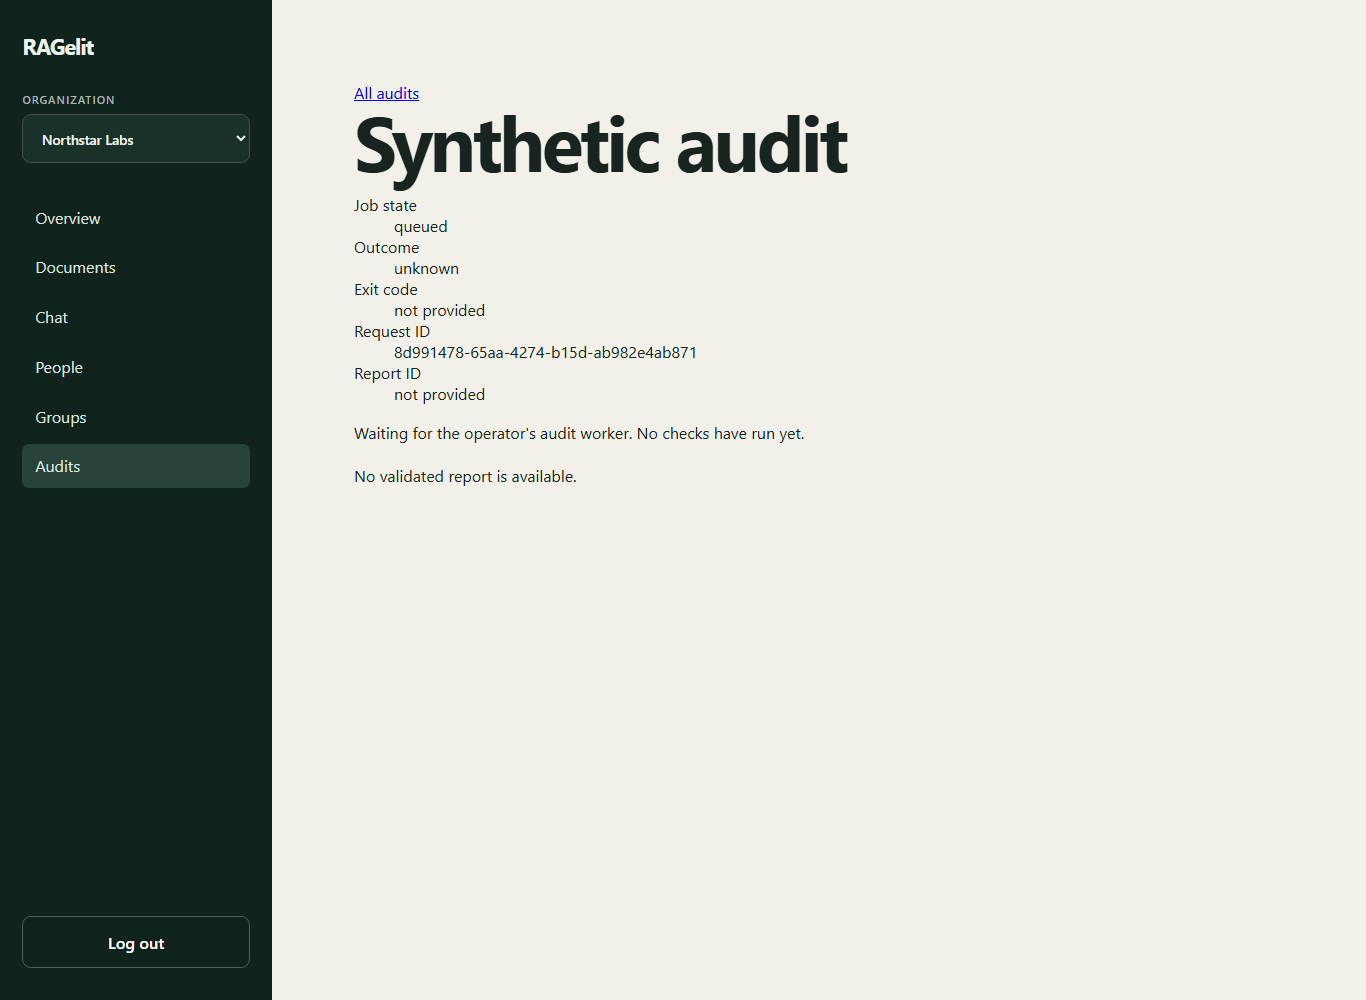
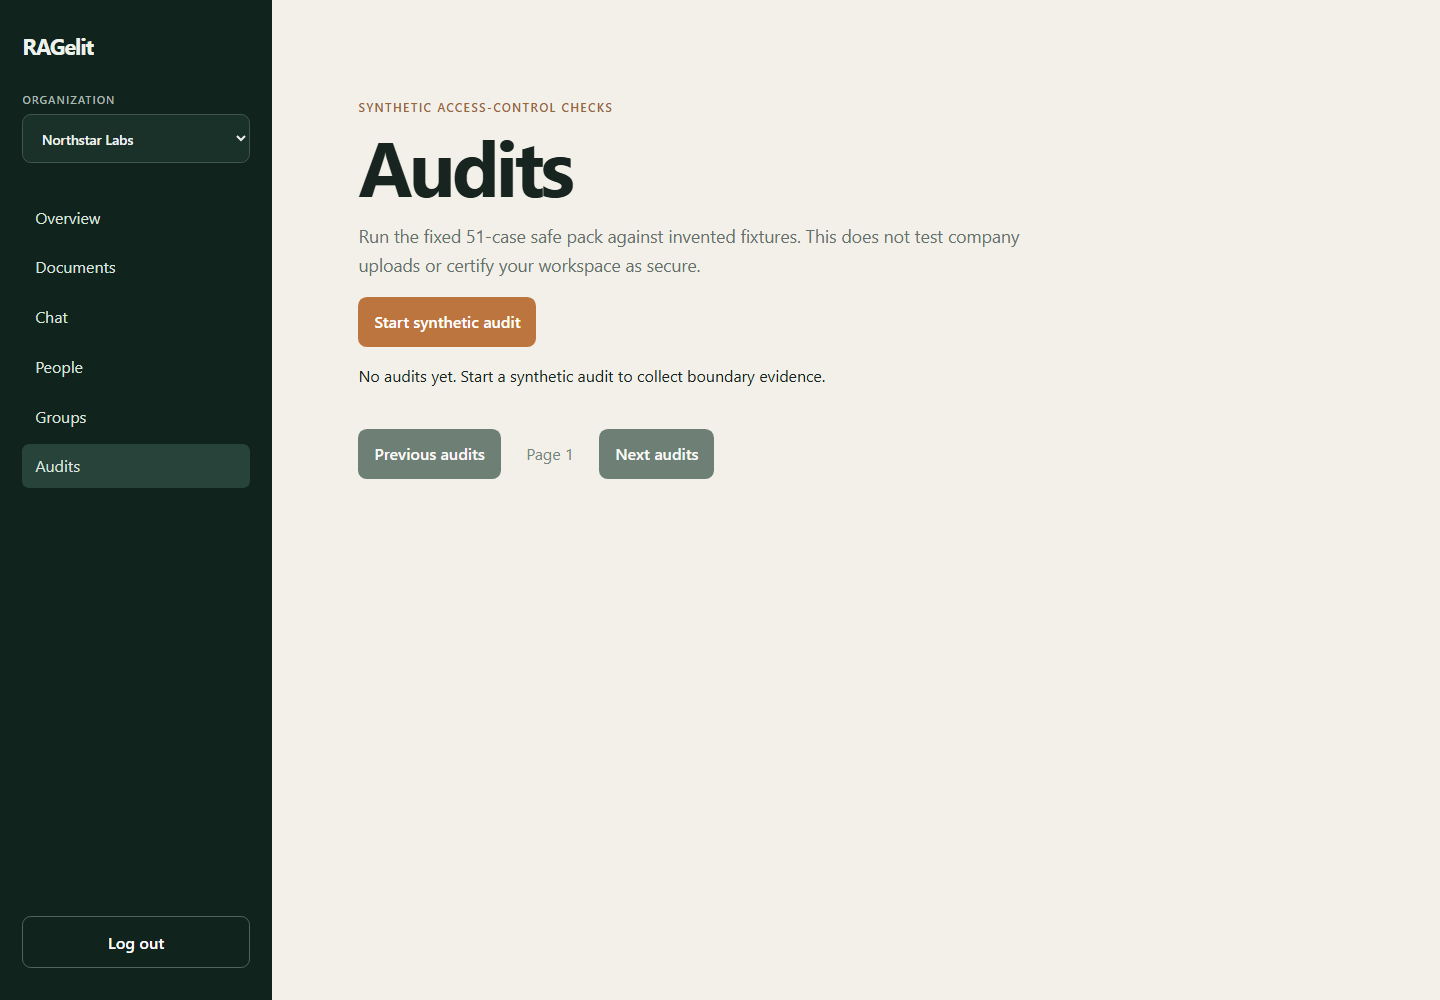
Refresh README with live portal screenshots

diff --git a/README.md b/README.md
@@ -1,60 +1,106 @@
 # RAGelit
 
-A multi-tenant document assistant with permission-aware retrieval and automated
-access-control auditing.
+A multi-tenant document assistant with permission-aware hybrid search and
+automated access-control auditing.
 
-Upload documents, grant reading access, and ask questions with source citations
-in one web portal. RAGelit also runs synthetic audits through the application
-pipeline to show where unauthorized evidence appears or is blocked.
+[![CI](https://github.com/HuzaifaAbdulRehman/ragelit/actions/workflows/ci.yml/badge.svg?branch=main)](https://github.com/HuzaifaAbdulRehman/ragelit/actions/workflows/ci.yml)
+[Preview release](https://github.com/HuzaifaAbdulRehman/ragelit/releases/tag/v0.1.0-preview.2)
 
-Status: MVP preview for local synthetic-data evaluation. Container-security
-findings and real-model quality measurements remain open. Evaluate locally with
-synthetic documents only; this is not cleared for production or confidential data.
+Upload documents, assign reading access, and ask questions with source citations.
+RAGelit filters evidence by organization and document grants before retrieval.
+Synthetic audits help inspect where unauthorized evidence is blocked or exposed.
 
-[Quick start](#quick-start) · [Operator reference](OPERATIONS.md) ·
-[Preview notes](docs/releases/v0.1.0-preview.1.md) ·
-[Security controls](docs/security/control-matrix.md) ·
-[Verification checkpoint](docs/verification/2026-10-07-local-release-checkpoint.md)
+MVP preview for local evaluation with synthetic data. Container-security findings
+and full real-model evaluations remain open. Not cleared for production or
+confidential documents.
 
-![Document question answered with a source citation in RAGelit](docs/screenshots/chat-citations.png)
+[Quick start](#quick-start) · [Screenshots](#portal) ·
+[How it works](#how-it-works) · [Verification](#verification-and-measured-limits) ·
+[Operator reference](OPERATIONS.md)
 
-Screenshots use invented Northstar Labs documents and accounts. The running
-portal used the real API, PostgreSQL, Qdrant and ingestion worker with test-only
-embeddings and an extractive answer provider. The answer above is a UI demo,
-not a real-model quality result.
+![A live model answer with a citation to the synthetic Northstar refund policy](docs/screenshots/chat-citations.png)
+
+A real answer from GPT-OSS 20B hosted on Groq, citing a permitted document.
+This is a small synthetic-data demonstration, not an answer-quality benchmark.
 
 ## What it does
 
-- Separate organizations in one portal, with owner, admin, member and auditor roles.
+- Separate organizations with owner, admin, member and auditor roles.
 - Ingest TXT, Markdown, DOCX and text-based PDF files, with versioning and retries.
-- Keep new documents restricted; grant access to people, groups or an organization.
-- Generate dense embeddings locally and combine vector search with BM25 retrieval.
-- Return cited answers, abstain without supporting evidence, and expose scoped query traces.
-- Run synthetic access-control audits and export redacted JSON or offline HTML evidence.
+- Restrict new documents; grant reading access to people, groups or an organization.
+- Combine local dense embeddings with BM25 keyword retrieval.
+- Return cited answers, abstain without evidence, and expose scoped query traces.
+- Run synthetic audits and export redacted JSON or offline HTML evidence.
 - Compare isolation strategies and replay utility, security and cost measurements from a CLI.
 
-RBAC controls management actions. Document grants control reading. Being an
-owner or uploading a document does not automatically make its contents readable.
-Tenant and grant filters apply before dense and keyword search, followed by
-application authorization checks. Audits distinguish retrieval, context and
-candidate output from evidence actually delivered to a user.
+Management roles do not grant document reading. Even an owner needs an explicit
+reading grant for a restricted document. Tenant and grant filters apply before
+search, followed by application authorization checks.
 
 ## Portal
 
-| Uploads and indexing | Synthetic audit queue |
-|---|---|
-| ![Document upload and ready state](docs/screenshots/documents.png) | ![Queued synthetic audit with an unknown outcome](docs/screenshots/audit-portal.png) |
+Captured with Playwright from the running app at a 1440 × 1000 desktop viewport.
+All accounts and documents are invented. These captures use the real API,
+PostgreSQL, Qdrant and ingestion worker, with local BGE/BM25 embeddings and live
+Groq generation for the cited answer. No mocked API responses or generated
+mockups are shown.
 
-The audit screenshot shows a queued job, not a passing result. An operator runs
-the audit worker separately; pending jobs remain unknown until evidence is saved.
+| Organization login | Workspace overview |
+| :--- | :--- |
+| ![Login page with empty email and password fields](docs/screenshots/login.png) | ![Northstar Labs workspace showing the owner role and active session](docs/screenshots/workspace-overview.png) |
+| Sign in to a specific organization. | See the current workspace and management role. |
 
 <details>
-<summary>Document-level reading access</summary>
+<summary>Documents and reading permissions</summary>
 
-![Saved restricted document policy with a direct-user and Engineering group grant](docs/screenshots/document-access.png)
+![Two indexed synthetic documents, both restricted](docs/screenshots/documents.png)
 
-The policy shown has one persisted user grant and one group grant. Management
-permissions and document reading access remain separate.
+Uploads become Ready after the ingestion worker indexes them. Reading access
+remains restricted until granted.
+
+![Focused reading-grant picker with an explicit owner grant](docs/screenshots/document-access.png)
+
+This focused view shows the owner's saved direct-user grant, not implicit access
+through the owner role. The member has no reading grant.
+
+</details>
+
+<details>
+<summary>Membership and group administration</summary>
+
+![Four synthetic organization members with role and activation controls](docs/screenshots/people.png)
+
+Roles control management actions; document grants are separate.
+
+![Engineering and Research groups with membership-management controls](docs/screenshots/groups.png)
+
+Groups can grant document reading without changing a person's role.
+
+</details>
+
+<details>
+<summary>No-access answers and query traces</summary>
+
+![A member without reading access receives no supporting evidence or citations](docs/screenshots/chat-no-access.png)
+
+The same refund question produces no supporting evidence for a member without
+reading access.
+
+![The cited answer's retrieval, context, generation and citation-validation stages](docs/screenshots/query-trace.png)
+
+Query traces show stage decisions, timings and scoped chunk IDs. They are not
+the model's internal reasoning.
+
+</details>
+
+<details>
+<summary>Synthetic audit workspace</summary>
+
+![The synthetic audit page before any audit has been started](docs/screenshots/audit-portal.png)
+
+This is the audit page's empty state, not a passing result. The operator runs
+the audit worker separately; queued jobs remain unknown until evidence is saved.
+The fixed safe pack uses 51 invented cases, not uploaded company documents.
 
 </details>
 
@@ -73,30 +119,43 @@ flowchart LR
     L --> S[Answer and validated citation IDs]
 ```
 
-PostgreSQL stores identities, document grants, versions, jobs and query traces,
+PostgreSQL stores identities, grants, document versions, jobs and query traces,
 with row-level security on tenant data. Workers handle ingestion and audits
 outside the web process. The lab-only retrieve-then-filter baseline is guarded
 from ordinary production configuration.
 
-Backend: Python, FastAPI, SQLAlchemy, PostgreSQL, FastEmbed/ONNX and Qdrant.
-Frontend: React, TypeScript, TanStack Query/Router and Vite. Dense retrieval uses
-BGE-small-en-v1.5; sparse retrieval uses Qdrant BM25. Generation uses a configured
-chat-completions-compatible server, not a provider login discovered automatically.
+The backend uses Python, FastAPI, SQLAlchemy, PostgreSQL, FastEmbed/ONNX and
+Qdrant. The frontend uses React, TypeScript, TanStack Query/Router and Vite.
+Dense retrieval uses BGE-small-en-v1.5; sparse retrieval uses Qdrant BM25.
+Generation accepts a configured chat-completions-compatible endpoint.
 
 ## Quick start
 
 Requires Docker Desktop/Compose, Python 3.12 or 3.13, uv, and Node.js 22 with npm.
-These defaults use Qdrant 1.19.2 with client 1.19.1. If you already have Qdrant
-data from an older version, read the [upgrade warning](OPERATIONS.md#existing-qdrant-data)
-before starting services. The commands below assume fresh data.
-Compose builds local linux/amd64 images from pinned upstream bases, with
-[PostgreSQL's zlib](docs/security/2026-10-09-postgres-zlib-candidate.md) and
-[Qdrant's PCRE2](docs/security/2026-10-09-qdrant-pcre2-candidate.md) fixes.
-Builds need package-repository access. Other container findings remain open.
-From the repository root on Windows:
+Local embeddings run on CPU. Hosted generation does not require a local GPU.
+
+These commands assume fresh data. The defaults use Qdrant 1.19.2 with client
+1.19.1. Do not attach old database volumes directly to the new images; read
+the [upgrade warning](OPERATIONS.md#existing-qdrant-data) first.
+
+From a fresh checkout:
 
 ```powershell
-Copy-Item .env.example .env
+git clone https://github.com/HuzaifaAbdulRehman/ragelit.git
+cd ragelit
+if (-not (Test-Path -LiteralPath .env)) { Copy-Item .env.example .env }
+```
+
+Edit `.env` for local configuration. Keep API keys there, never in
+`.env.example` or Git. The default database passwords and signing secret are
+for local development only.
+
+Compose builds local linux/amd64 images with the pinned
+[PostgreSQL zlib](docs/security/2026-10-09-postgres-zlib-candidate.md) and
+[Qdrant PCRE2](docs/security/2026-10-09-qdrant-pcre2-candidate.md) fixes.
+Builds need package-repository access; other container findings remain open.
+
+```powershell
 docker compose up -d --build postgres qdrant
 cd backend
 uv sync --frozen
@@ -105,9 +164,10 @@ uv run --frozen python -m app.seed
 uv run --frozen uvicorn app.main:create_app --factory --host 127.0.0.1 --port 8000
 ```
 
-On Linux/macOS, replace `Copy-Item .env.example .env` with `cp .env.example .env`.
-Save the demo passwords printed on the first seed; later seeds do not reset them.
-In another terminal:
+Save the demo passwords printed by the first seed. Later seeds do not reset
+them. On Linux/macOS, use `cp .env.example .env` only if `.env` does not exist.
+
+In another terminal, from the repository root:
 
 ```console
 cd frontend
@@ -115,79 +175,90 @@ npm ci
 npm run dev
 ```
 
-Open http://localhost:5173/login. Use `owner@northstar.example`, organization
-`northstar-labs`, and its generated password. API docs are at
-http://localhost:8000/docs.
+Open http://localhost:5173/login. Sign in with `owner@northstar.example`,
+organization `northstar-labs`, and its generated password.
+API docs are at http://localhost:8000/docs.
 
-To index uploads, run a worker from `backend` with the organization UUID returned
-by `GET /api/v1/organizations` after login:
+To index uploads, run a worker from `backend` with the organization UUID
+returned by `GET /api/v1/organizations` after login:
 
 ```console
 uv run --frozen python -m app.workers.ingestion --organization-id <organization_uuid>
 ```
 
-The first ingestion run downloads the public embedding models. Generation is
-disabled by default. To answer questions with permitted evidence, configure
-`RAGELIT_LLM_BASE_URL` and `RAGELIT_LLM_MODEL` for an already-running compatible
-server, then restart the API. An external endpoint receives the question and
-permitted context; choose it deliberately for private documents. See
-[model setup, audit workers and recovery](OPERATIONS.md).
+The first ingestion run downloads the public embedding models.
+
+### Configure answer generation
+
+Generation is disabled until an endpoint and model are configured. A local
+server or hosted provider can supply them. For example, the live screenshots
+use these Groq settings in `.env`:
+
+```dotenv
+RAGELIT_LLM_BASE_URL=https://api.groq.com/openai/v1
+RAGELIT_LLM_MODEL=openai/gpt-oss-20b
+RAGELIT_LLM_API_KEY=replace_with_your_own_groq_key
+```
+
+Restart the API after changing settings. A hosted endpoint receives the question
+and permitted document excerpts. Use synthetic data for this preview and check
+your provider's usage limits. No provider credentials are discovered automatically.
+See [generation setup and recovery](OPERATIONS.md#upload-and-ask-through-the-api).
 
 ## Try the document workflow
 
-1. Upload a supported document and wait for its state to become Ready.
-2. Use Edit access to grant a person, group or the whole organization reading access.
-3. Sign in as an authorized reader, ask a question in Chat, and inspect its citations.
-4. Revoke access and ask a new question. Previous answers are not retroactively erased.
+1. Upload a supported document and wait for Ready.
+2. Open Edit access and grant reading to a person, group or the organization.
+3. Sign in as an authorized reader, ask a question, and inspect its citations.
+4. Remove access and ask a new question. Previous answers are not retroactively erased.
 
-Audits use invented fixtures, not your uploaded company documents. Their positive
-controls prevent a deny-all system from earning a pass. Exit codes are `0` for
-pass, `1` for completed control failures and `2` for incomplete evidence or runtime
-failure. Follow the [audit commands](OPERATIONS.md#synthetic-access-control-cli)
-for the deliberately vulnerable lab and safe profiles.
+Audits use invented fixtures. Positive controls prevent a deny-all system from
+earning a pass. CLI exit codes are `0` for pass, `1` for completed control failures
+and `2` for incomplete evidence or runtime failure. Follow the
+[audit commands](OPERATIONS.md#synthetic-access-control-cli) for safe and
+deliberately vulnerable lab profiles.
 
 ## Verification and measured limits
 
-Run `powershell -File scripts/verify.ps1` on Windows or `bash scripts/verify.sh`
-on Linux/macOS. Use disposable local test services; the browser fixtures recreate
-the dedicated `ragelit_e2e` database and collection. See the
-[test setup](OPERATIONS.md#verify) before running either command.
+The [merged-main CI run](https://github.com/HuzaifaAbdulRehman/ragelit/actions/runs/37999836956)
+passed at `d9c6259`. The workflow covers static checks, backend unit and
+integration tests, browser journeys, locked-dependency checks and validated
+audit exports.
 
-The [latest checkpoint](docs/verification/2026-10-07-local-release-checkpoint.md)
-records a clean Windows clone's complete 51-case safe audit, static checks,
-frontend build and original report validation. The complete
-[PR #28 CI run](https://github.com/HuzaifaAbdulRehman/ragelit/actions/runs/37966718759)
-passed with the patched PostgreSQL and Qdrant defaults: 794 unit tests,
-260 integration tests with four model-dependent skips, and 57 browser journeys.
-Static, build, secret and locked-dependency checks passed, and all three
-validated audit export sets were uploaded. The merge at `1ac8deb` has the
-same tree as the tested PR head; its separate post-merge run is recorded in
-the checkpoint.
+The October 12, 2026 live smoke check verified upload, real-model answer generation
+with a matching citation, and no-access abstention using synthetic documents.
+It used GPT-OSS 20B on Groq. This small check does not establish general answer
+quality, prompt-injection resistance or measured revocation delay.
 
-The same checkpoint records 57 passing Playwright journeys, a fresh three-profile
-deterministic injection export, and a three-strategy deterministic isolation
-export whose reports and receipts validate offline. These checks cover
-application behavior and the audit harness. They do not establish real-model
-answer quality or real-model injection resistance. It also records a fresh
-safe/vulnerable/deny-all access-control demo with the expected 0/1/1 exits.
+The [verification checkpoint](docs/verification/2026-10-07-local-release-checkpoint.md)
+records the deterministic access-control, injection and isolation packs, with
+offline report validation. Those checks test application behavior and the audit
+harness, not real-model injection resistance.
 
-The full 87-query local baseline measured retrieval, but all generation requests
-timed out at the unchanged deadline. Answer/citation quality and measured
-revocation delay remain unknown. No real-model injection-resistance claim follows
-from the deterministic audits. Docker Scout also found unresolved high/critical
-findings in the pinned PostgreSQL and Qdrant images, so the project is not a
-security-cleared v0.1 release. Logs and raw artifacts are retained locally;
-remaining release checks are listed in the checkpoint.
+The earlier 87-query CPU baseline completed retrieval, but all generation requests
+timed out at the unchanged deadline. Full answer/citation quality and revocation
+measurements remain open in [#23](https://github.com/HuzaifaAbdulRehman/ragelit/issues/23).
+Unresolved container-security findings and stable-release sign-off remain in
+[#24](https://github.com/HuzaifaAbdulRehman/ragelit/issues/24).
+
+To run local verification, use `powershell -File scripts/verify.ps1` on Windows
+or `bash scripts/verify.sh` on Linux/macOS. Read the
+[test setup](OPERATIONS.md#verify) first: browser fixtures recreate the dedicated
+`ragelit_e2e` database and collection. Use disposable test services.
 
 No OCR, live token streaming, billing, invitations or retention purge is included.
 Deletion stops retrieval but retains source files and inactive vectors. Citation
 ID validation does not prove every generated claim is correct.
 
-## Reference
+## Reference and support
 
+- [Detailed local operations](OPERATIONS.md)
 - [Security control matrix](docs/security/control-matrix.md)
 - [Metric definitions and artifact format](docs/evaluation/metric-definitions.md)
 - [Pinned embedding assets](docs/evaluation/model-pins.md) and [local generation baseline](docs/evaluation/generation-pins.md)
 - [OpenAPI contract](backend/openapi.json)
 - [Third-party sources and notices](THIRD_PARTY_NOTICES.md)
-- [Detailed local operations](OPERATIONS.md)
+
+For bugs, use [GitHub issues](https://github.com/HuzaifaAbdulRehman/ragelit/issues)
+with reproduction steps and synthetic examples. Do not attach API keys,
+credentials or confidential documents.
